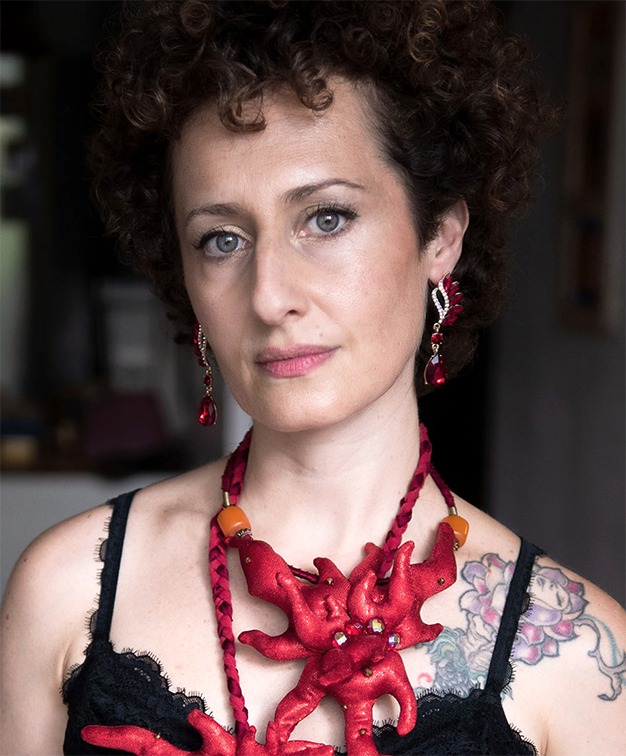
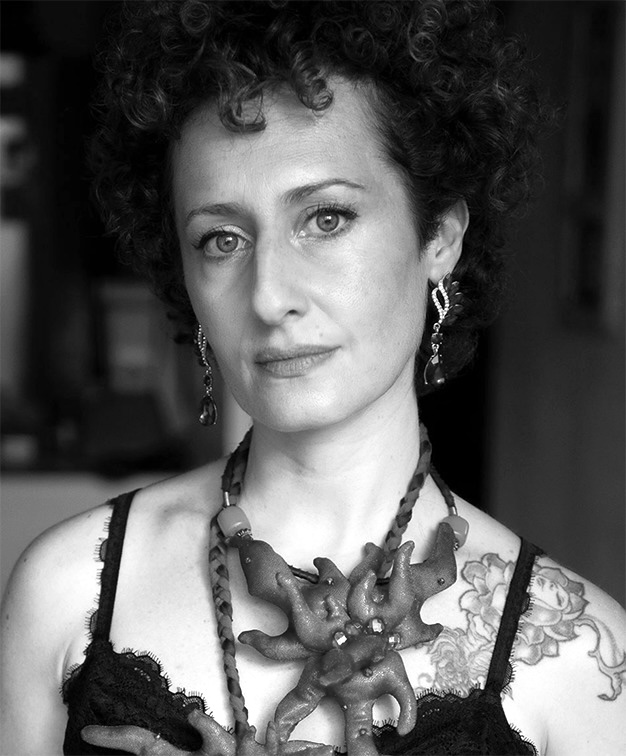
b and w photos add new translations

diff --git a/src/app/data/useCompany.ts b/src/app/data/useCompany.ts
@@ -1,9 +1,10 @@
 export const useCompany = () => {
   return {
-    bio: "Roser Tutusaus and Tom Weksler founded WONDERGROUND in 2018 in Barcelona, defining themselves as artisans of action and expression.\n" +
+    bio:
+      "Roser Tutusaus and Tom Weksler founded <strong>WONDERGROUND</strong> in 2018 in Barcelona, defining themselves as artisans of action and expression.\n" +
       "Their work uncovers the hidden stories within the body, posing universal questions about humanity and its nature. They explore themes such as love, community, companionship, ecology, wilderness, death, and revelation.\n" +
-      "Their performances are captivating and physically rich, shaped by constant aesthetic research. They create Kinetic Poems and Meditative Spectacles through an interdisciplinary language that merges Contemporary Dance, Acrobatics, Butoh, partnering, text, and ephemeral architectures. Their movement language is developed through Movement Archery, a practice that refines both their pedagogy and creative process.\n" +
-      "In 2022, they established The Island, their creative workspace in the forested outskirts of Barcelona. This peaceful haven serves as a space for practice, creation, and artistic exchange, where they also host workshops and laboratories.\n" +
-      "He developed Movement Archery, a pedagogical and creative practice that refines both technique and artistic exploration. Together, their movement language is an evolving dialogue between control and risk, structure and spontaneity."
-  }
-}
+      "Their performances are captivating and physically rich, shaped by constant aesthetic research. They create <strong>Kinetic Poems</strong> and <strong>Meditative Spectacles</strong> through an interdisciplinary language that merges Contemporary Dance, Acrobatics, Butoh, partnering, text, and ephemeral architectures. Their movement language is developed through <strong>Movement Archery</strong>, a practice that refines both their pedagogy and creative process.\n" +
+      "In 2022, they established <strong>The Island</strong>, their creative workspace in the forested outskirts of Barcelona. This peaceful haven serves as a space for practice, creation, and artistic exchange, where they also host workshops and laboratories.\n" +
+      "He developed <strong>Movement Archery</strong>, a pedagogical and creative practice that refines both technique and artistic exploration. Together, their movement language is an evolving dialogue between control and risk, structure and spontaneity.",
+  };
+};

diff --git a/src/app/page.tsx b/src/app/page.tsx
@@ -41,6 +41,17 @@ function Main() {
             exit={{ opacity: 0 }}
             transition={{ duration: 2.5 }}
           >
+            <motion.img
+              initial={{ opacity: 0, scale: 1.1 }}
+              animate={{ opacity: .25, scale: 1 }}
+              exit={{ opacity: 0, scale: 0.9 }}
+              transition={{ duration: 2 }}
+              src="/icon_inverted.png"
+              alt="Wonderground"
+              width="600"
+              height="600"
+              className="fixed mb-95"
+            />
             <motion.div
               initial={{ opacity: 0, scale: 1.1 }}
               animate={{ opacity: 1, scale: 1 }}
@@ -48,16 +59,7 @@ function Main() {
               transition={{ duration: 2 }}
               className="text-4xl tracking-widest font-extralight"
             >
-              <div className="flex flex-col items-left">
-                <Image
-                  src="/icon_inverted.png"
-                  alt="Wonderground"
-                  width="32"
-                  height="32"
-                  className="mb-[-8]"
-                />
-                WONDERGROUND
-              </div>
+              WONDERGROUND
             </motion.div>
           </motion.div>
         )}

diff --git a/src/app/data/usePeople.ts b/src/app/data/usePeople.ts
@@ -38,8 +38,8 @@ export const usePeople = (): Person[] => {
       type: 'collaborator',
     },
     {
-      id: "odeda-vinathan",
-      name: "Odeda Vinathan",
+      id: "oded-avinathan",
+      name: "Oded Avinathan",
       bio: "Oded Avinathan is a circus artist specializing in group hand-to-hand acrobatics, based in Toulouse, France. Born in 1989 in Haifa, Israel, he began performing in 2012 at Sandciel, the Israeli Circus School. He later trained at CRAC de Lomme in Lille, France, under Mahmoud Louertani and Abdeliazide Senhadji of Company XY. Oded performed in the collective BimBim and collaborated on several creations, including works with Bernadette Gruson and Komplexkapharnaüm. In 2018, he joined Company XY for the creation of Möbius and later participated in Pas du Monde (2024). He has been collaborating with Wonderground since 2022, contributing to acrobatic and movement research and performing in Wall & Peace.",
       title: "Performer, Acrobat and Artistic Collaborator",
       image: "/about/odedavinathan.jpg",

diff --git a/src/app/components/PieceDossier.tsx b/src/app/components/PieceDossier.tsx
@@ -91,15 +91,17 @@ export const PieceDossier = ({ piece }: { piece: Piece }) => {
           className="w-full ml-[-4px] mt-4"
         />
 
-        <motion.p
-          className="m-6 md:m-12 text-3xl text-center p-12 uppercase"
-          initial={{ opacity: 0, y: 30 }}
-          animate={{ opacity: 1, y: 0 }}
-          whileInView={{ scale: 1.1 }}
-          transition={{ duration: 1.5, delay: 0.4 }}
-        >
-          {piece.quote}
-        </motion.p>
+        {piece.quote &&
+          <motion.p
+            className="m-6 md:m-12 text-3xl text-center p-12 uppercase"
+            initial={{ opacity: 0, y: 30 }}
+            animate={{ opacity: 1, y: 0 }}
+            whileInView={{ scale: 1.1 }}
+            transition={{ duration: 1.5, delay: 0.4 }}
+          >
+            {piece.quote}
+          </motion.p>
+        }
 
         <motion.div
           className="m-6 md:m-12 md:w-2/3 mb-12 md:p-12"

diff --git a/src/app/components/Header.tsx b/src/app/components/Header.tsx
@@ -34,13 +34,13 @@ export const Header = ({
       animate={{ opacity: 1, y: 0 }}
       transition={{ duration: 0.6, delay: 0.5 }}
     >
-      <Link className="flex flex-col items-left cursor-pointer" href="/">
+      <Link className="items-left cursor-pointer" href="/">
         <Image
           src="/icon_inverted.png"
           alt="Wonderground"
           width="305"
           height="359"
-          className="sm:mb-[-8] w-8 h-8 sm:w-6 sm:h-6"
+          className="inline sm:hidden sm:mb-[-8] w-8 h-8 sm:w-6 sm:h-6"
         />
         <span className="hidden sm:inline text-l md:text-xl tracking-widest">WONDERGROUND</span>
       </Link>

diff --git a/src/app/components/People.tsx b/src/app/components/People.tsx
@@ -10,9 +10,10 @@ const Profile = ({ person, index }: { person: Person; index: number }) => {
   return (
     <motion.div
       className="flex flex-col md:flex-row items-center gap-8 py-16 md:py-24 first:pt-0"
-      initial={{ opacity: 0, y: 20 }}
+      initial={{ opacity: 0, y: 20, scale: 1.0 }}
       animate={{ opacity: 1, y: 0 }}
       transition={{ duration: 0.6, delay: index * 0.2 }}
+      whileInView={{ scale: 1.1 }}
     >
       <div
         className={`flex flex-col md:flex-row w-full items-center  ${isEven ? "md:flex-row" : "md:flex-row-reverse"} gap-2 md:gap-10 md:gap-16`}
